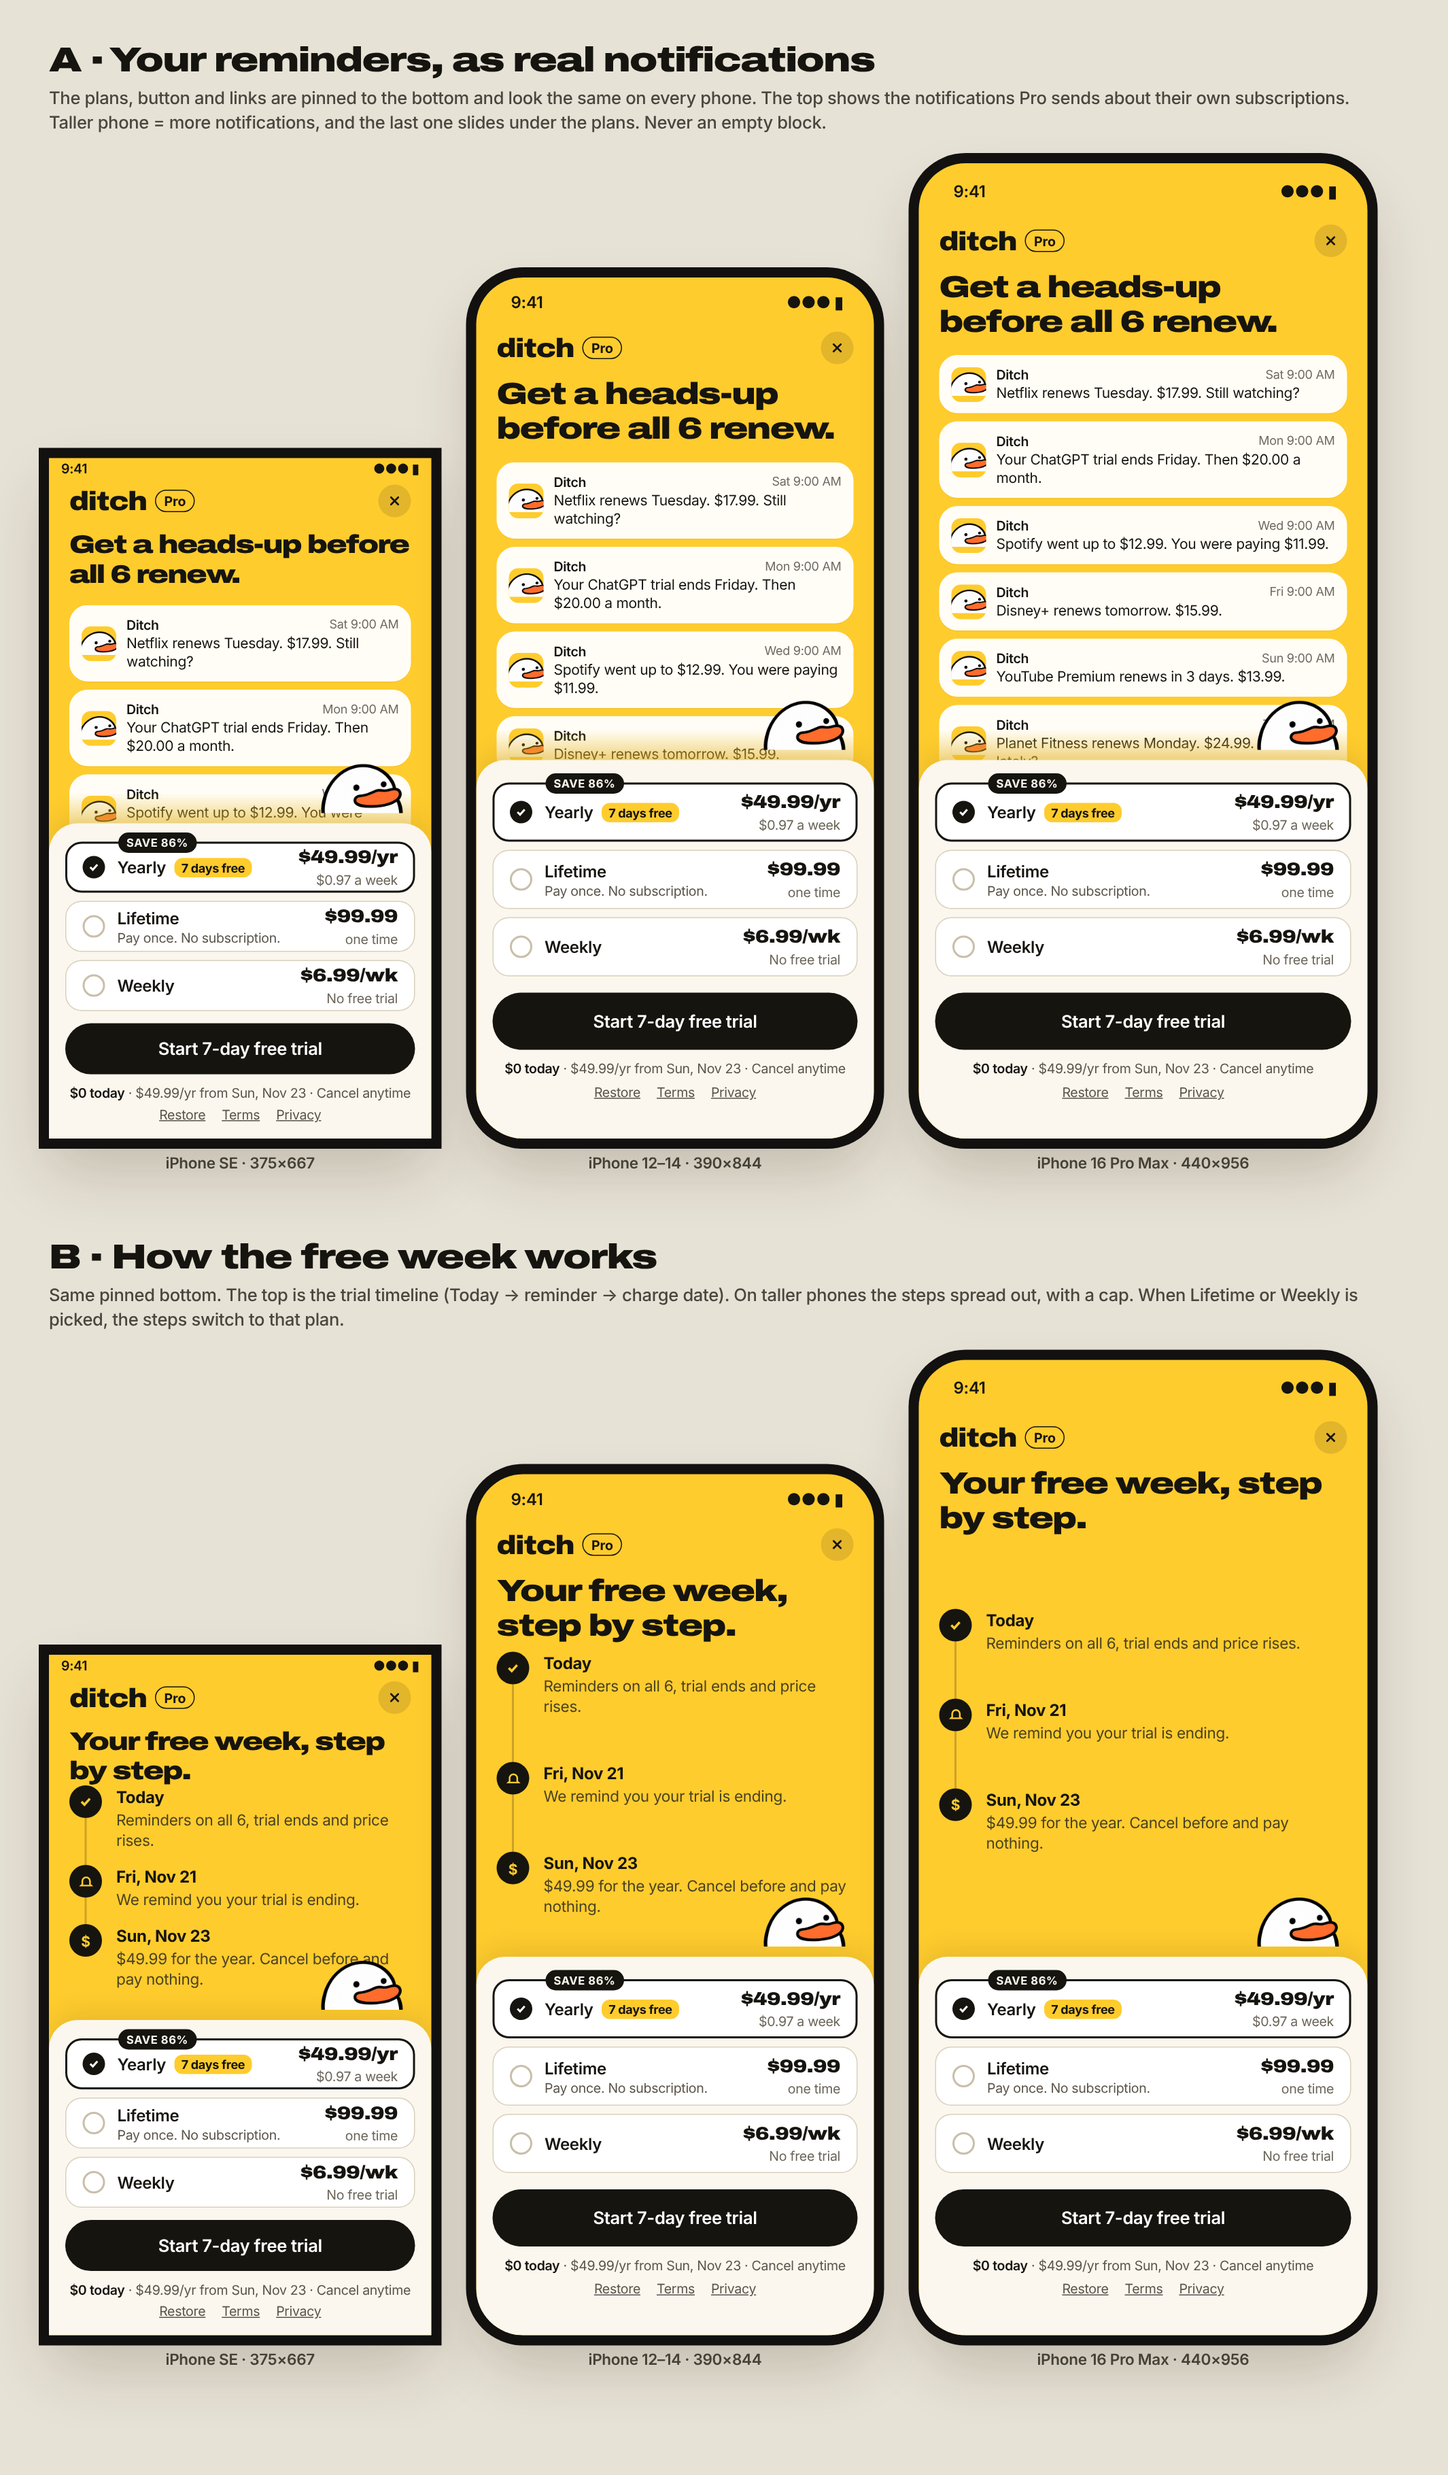
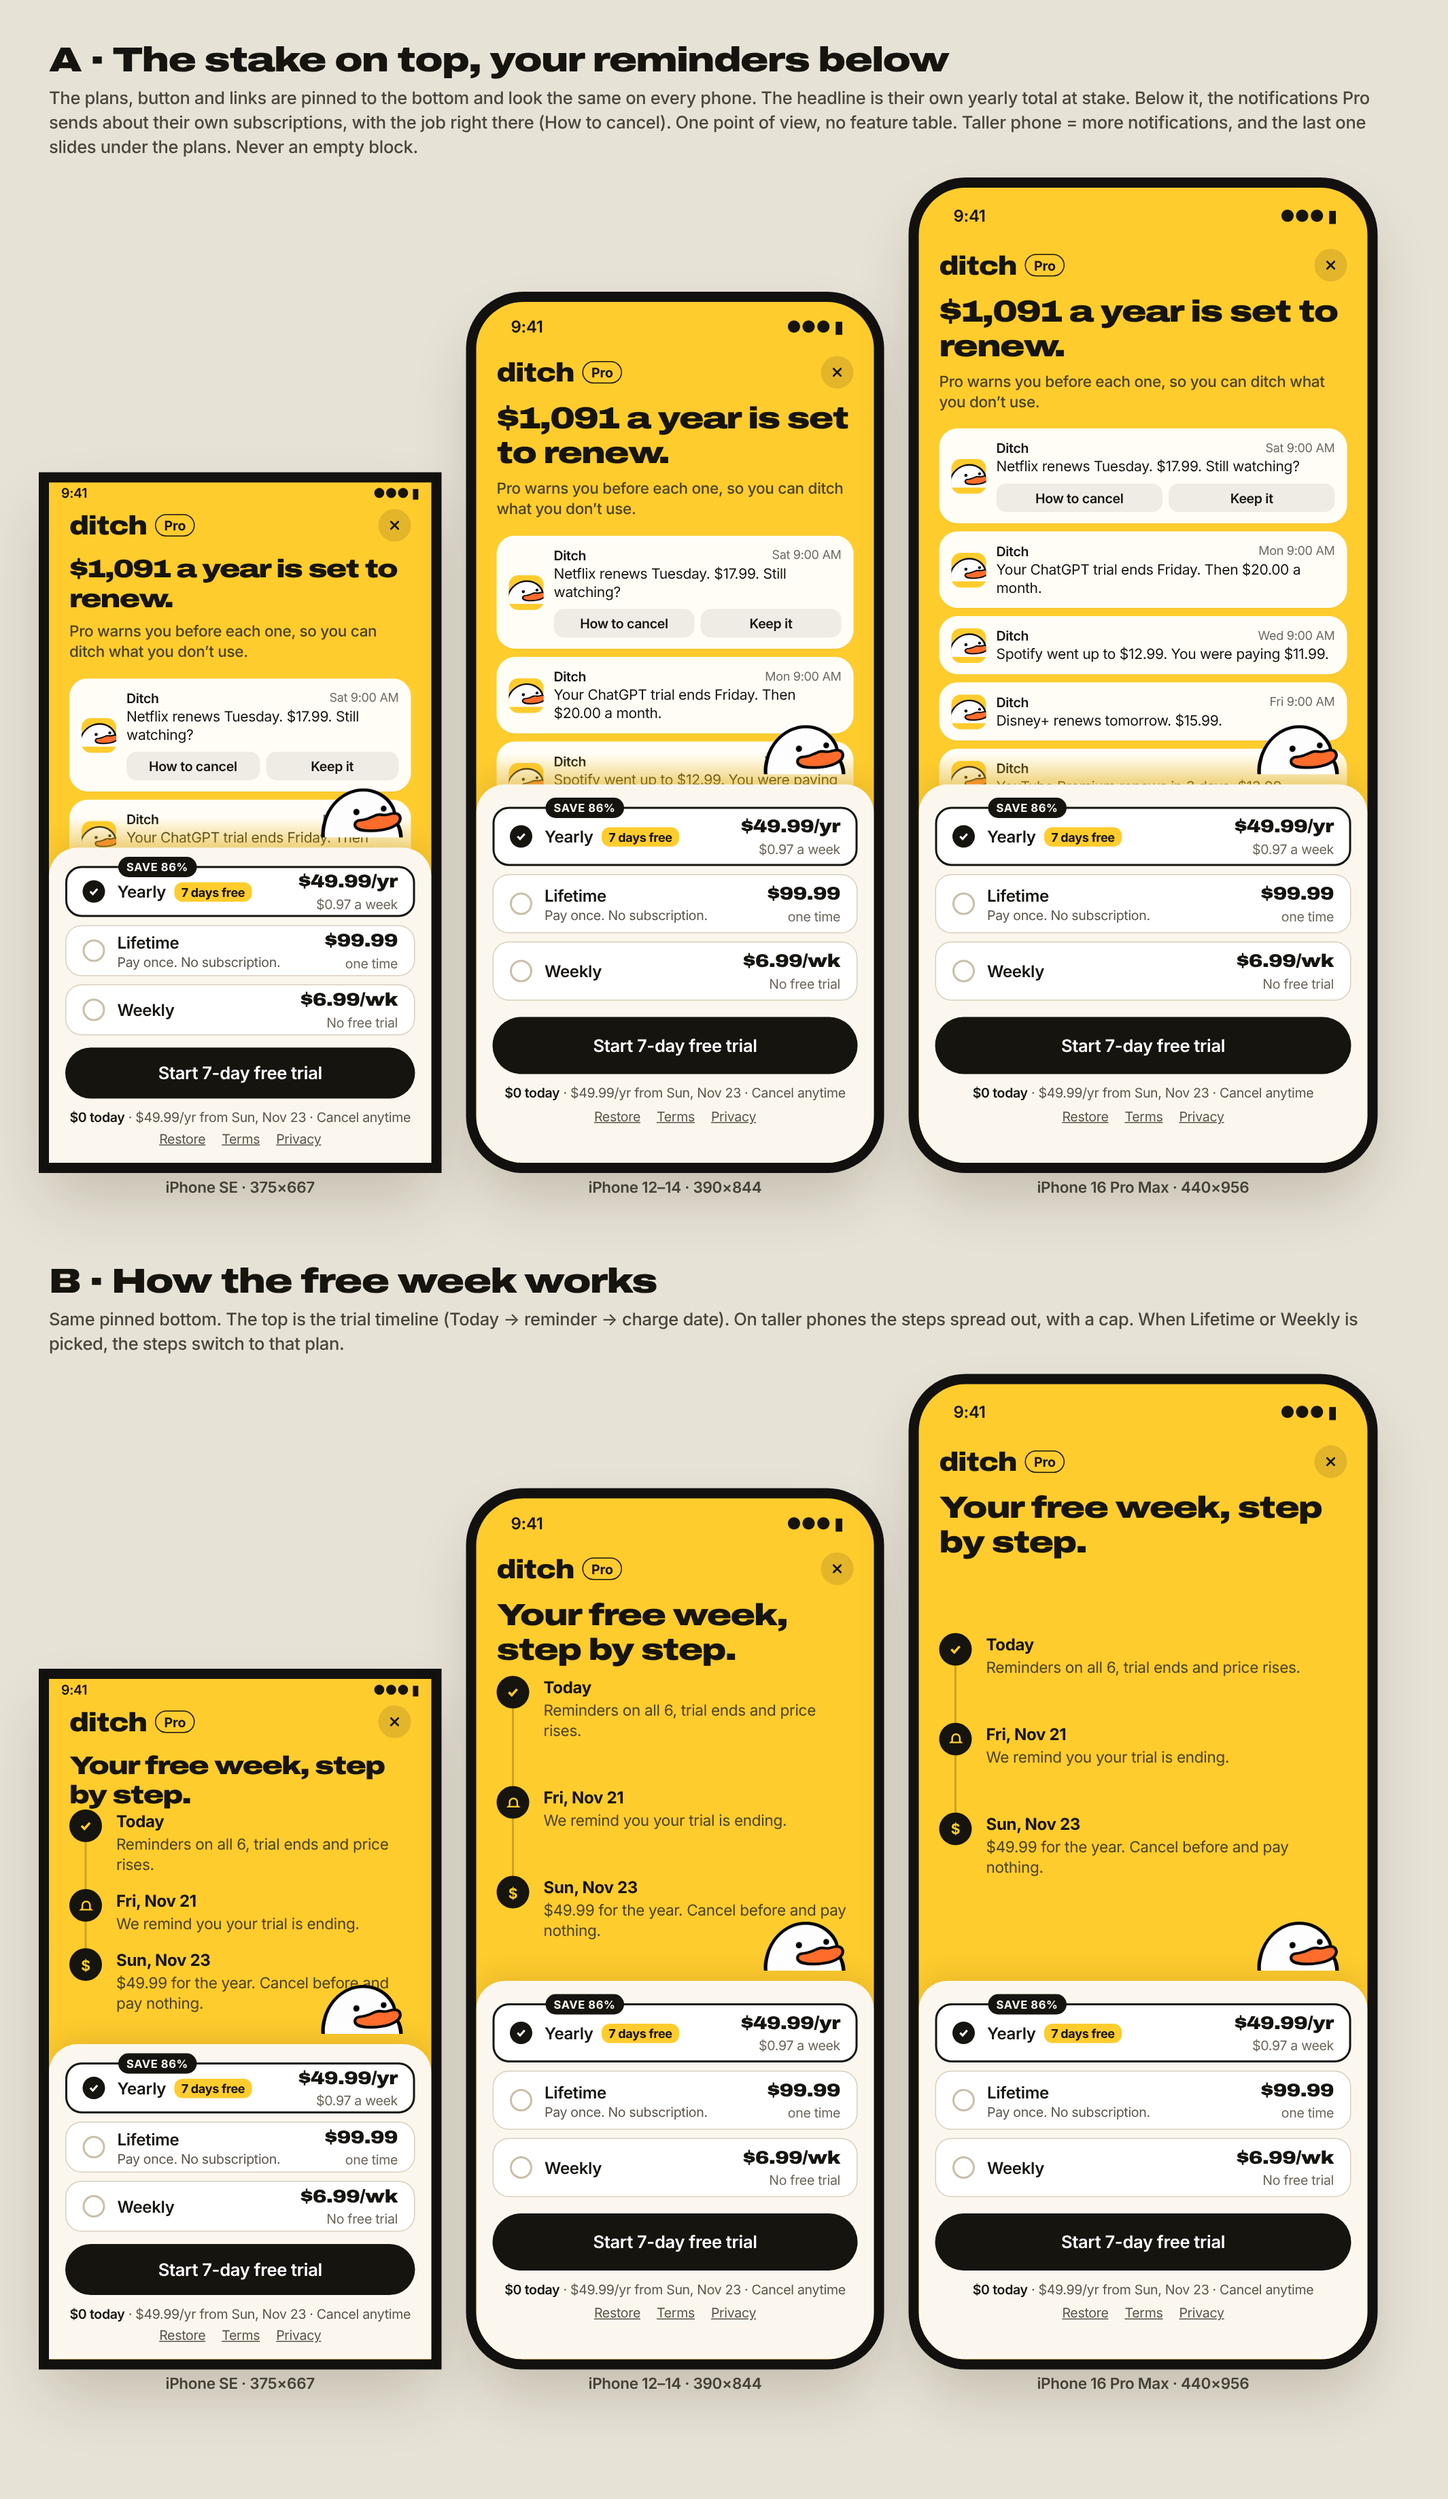
Design v17 A: stake headline, cancel action in the reminder
Claude-Session: https://claude.ai/code/session_01Q8GFjWCZXwnj2nAcxjTkxh

diff --git a/design/v17/paywall.html b/design/v17/paywall.html
@@ -42,6 +42,7 @@ h2{font:900 34px/38px Archivo;font-stretch:125%;letter-spacing:-1px;margin:0 0 6
 .nt .h{display:flex;justify-content:space-between;font:600 13px Inter}
 .nt .h span{font:400 12px Inter;color:#6E6A62}
 .nt .m{font:400 14px/18px Inter;margin-top:1px}
+.acts{display:flex;gap:6px;margin-top:8px}.acts span{flex:1;text-align:center;background:rgba(22,20,15,.07);border-radius:10px;padding:6px 0;font:600 13px Inter}
 .thumb{width:34px;height:34px;border-radius:8px;flex:none;overflow:hidden}
 .thumb img{width:100%;height:100%;object-fit:cover}
 
@@ -97,9 +98,10 @@ h2{font:900 34px/38px Archivo;font-stretch:125%;letter-spacing:-1px;margin:0 0 6
 <template id="heroA">
  <div class="hero">
   <div class="bar"><span class="lock">ditch <span class="pro">Pro</span></span><span class="x"><svg width="14" height="14" viewBox="0 0 24 24" fill="none" stroke="#16140F" stroke-width="3" stroke-linecap="round"><path d="M6 6l12 12M18 6L6 18"/></svg></span></div>
-  <h1 class="title">Get a heads-up before all 6 renew.</h1>
+  <h1 class="title">$1,091 a year is set to renew.</h1>
+  <p class="lead">Pro warns you before each one, so you can ditch what you don’t use.</p>
   <div class="stack">
-   <div class="nt"><span class="app"><img src="../v12/duck.png"></span><div class="t"><div class="h">Ditch<span>Sat 9:00 AM</span></div><div class="m">Netflix renews Tuesday. $17.99. Still watching?</div></div></div>
+   <div class="nt"><span class="app"><img src="../v12/duck.png"></span><div class="t"><div class="h">Ditch<span>Sat 9:00 AM</span></div><div class="m">Netflix renews Tuesday. $17.99. Still watching?</div><div class="acts"><span>How to cancel</span><span>Keep it</span></div></div></div>
    <div class="nt"><span class="app"><img src="../v12/duck.png"></span><div class="t"><div class="h">Ditch<span>Mon 9:00 AM</span></div><div class="m">Your ChatGPT trial ends Friday. Then $20.00 a month.</div></div></div>
    <div class="nt"><span class="app"><img src="../v12/duck.png"></span><div class="t"><div class="h">Ditch<span>Wed 9:00 AM</span></div><div class="m">Spotify went up to $12.99. You were paying $11.99.</div></div></div>
    <div class="nt"><span class="app"><img src="../v12/duck.png"></span><div class="t"><div class="h">Ditch<span>Fri 9:00 AM</span></div><div class="m">Disney+ renews tomorrow. $15.99.</div></div></div>
@@ -121,8 +123,8 @@ h2{font:900 34px/38px Archivo;font-stretch:125%;letter-spacing:-1px;margin:0 0 6
  </div>
 </template>
 
-<h2>A · Your reminders, as real notifications</h2>
-<p class="lede">The plans, button and links are pinned to the bottom and look the same on every phone. The top shows the notifications Pro sends about their own subscriptions. Taller phone = more notifications, and the last one slides under the plans. Never an empty block.</p>
+<h2>A · The stake on top, your reminders below</h2>
+<p class="lede">The plans, button and links are pinned to the bottom and look the same on every phone. The headline is their own yearly total at stake. Below it, the notifications Pro sends about their own subscriptions, with the job right there (How to cancel). One point of view, no feature table. Taller phone = more notifications, and the last one slides under the plans. Never an empty block.</p>
 <div class="row" id="rowA"></div>
 
 <h2>B · How the free week works</h2>
